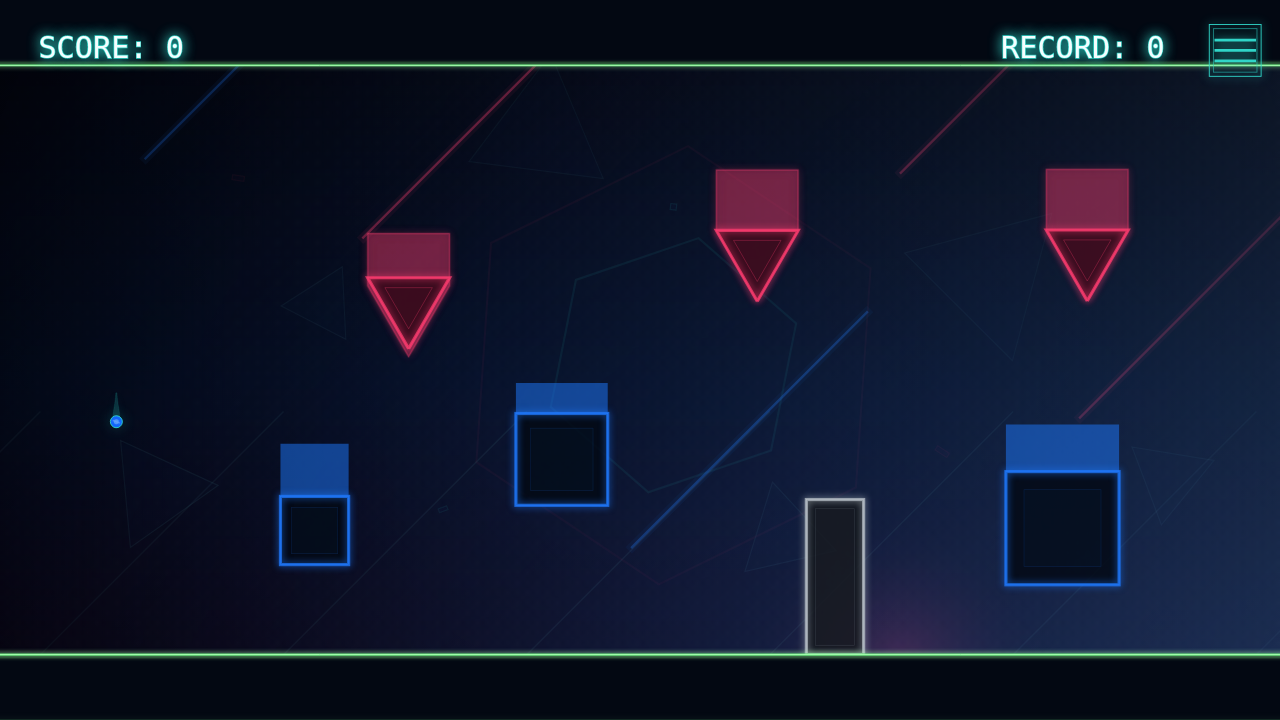
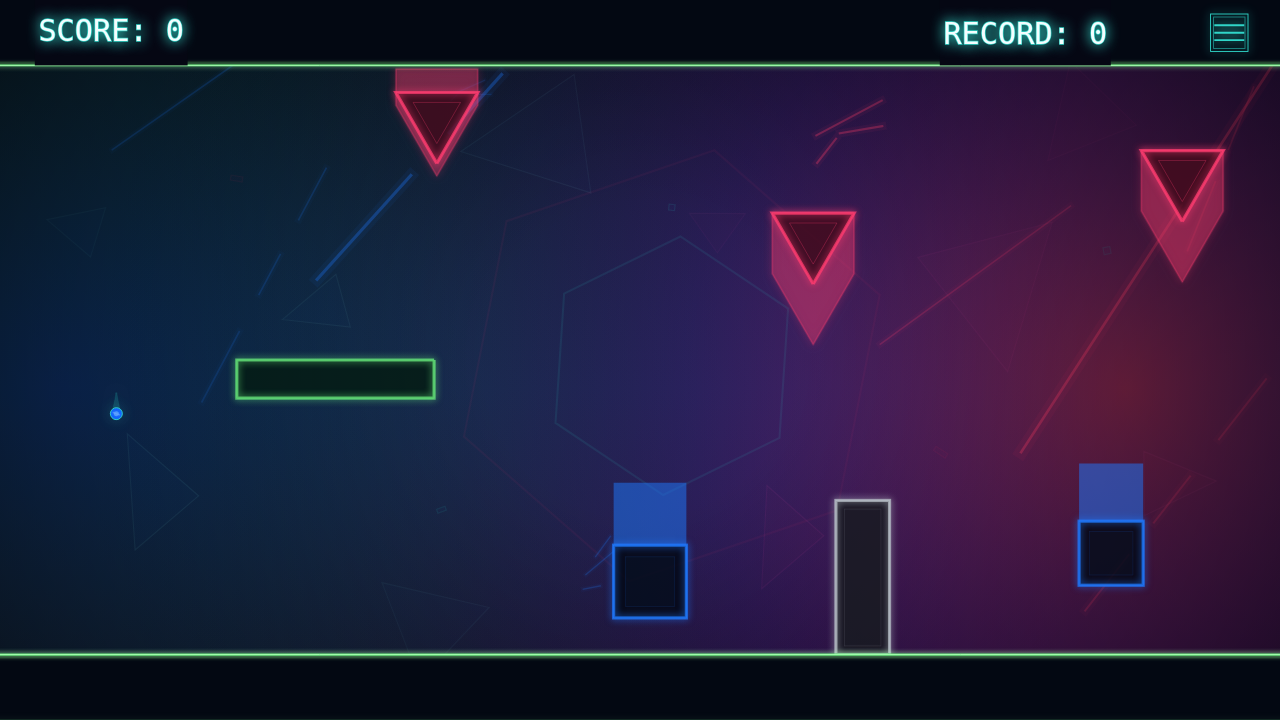
TASK-057: Remove bad HUD stage indicator

diff --git a/sprites/scoretext.js b/sprites/scoretext.js
@@ -49,9 +49,6 @@ let scoreText =
 
         this.drawHudText(recordText, recordX, recordY, 'end')
 
-        if (version == 'bad')
-            this.drawStageIndicator(viewWidth, topY, fontSize)
-
         ctx.restore()
     },
     getRecordX: function(viewWidth)

diff --git a/progress.md b/progress.md
@@ -114,6 +114,7 @@ TASK-054: Re-enabled distant bad-version background motion and bumped time/paral
 TASK-055: Reduced bad-version player trail width/glow/alpha multipliers, verified against master_branch_version.png with a controlled browser screenshot, no console errors, valid JSON, and saved screenshots/TASK-055.png. Gotcha: screenshot uses a deterministic injected trail path so the size comparison is repeatable.
 TASK-056: Replaced the player trail stroke with a tapered filled ribbon path, verified bad/classic browser rendering, no console errors, valid JSON, and saved screenshots/TASK-056.png. Gotcha: screenshot uses a deterministic curved bad-version track so the ribbon shape is easy to inspect.
 TASK-057: Removed the bad-version top-middle stage indicator draw call; browser checks confirmed no diamond/1 2 3 marker, score/record/menu remain readable, menu click opens pause, no console errors, valid JSON, and saved screenshots/TASK-057.png. Gotcha: stage indicator helper methods remain unused intentionally to keep this visual-only change narrow.
+TASK-057: Removed the restored scoreText stage-indicator draw call; browser runtime probe recorded 0 drawStageIndicator calls, screenshot shows no centered diamond/1 2 3 marker, top-right menu click still pauses, no JS errors, and tasks.json is valid JSON. Gotcha: helper methods remain unused intentionally for this visual-only removal.
 TASK-058: Removed the global trampoline splash cooldown and release splash locks on actual collision separation; browser probes confirmed first splash, no continuous-contact spam, rapid re-contact splash in bad/classic, particles-disable behavior, no console errors, valid JSON, and saved screenshots/TASK-058.png. Gotcha: screenshot nudges the player aside after the second burst so the behind-foreground splash cluster is visible.
 TASK-059: Replaced trampoline-radius-derived splash dispersion with fixed STYLE.particles.trampolineSplashDispersion; browser probes confirmed normal and large paired trampolines share the same compact 4.5-unit spread, classic splash still renders, quality-disable blocks splashes, no console errors, valid JSON, and saved screenshots/TASK-059.png. Gotcha: screenshot uses injected normal/large trampolines so both splash sizes are visible together.
 TASK-060: Added a bad-version-only soft fake dynamic lighting wash with blue ambient on the left and magenta/red ambient on the right; browser probe passed, screenshot compared with concept_art, no console errors, valid JSON, and saved screenshots/TASK-060.png. Gotcha: the wash is intentionally in the background layer before geometry/world objects so it stays visual-only.
